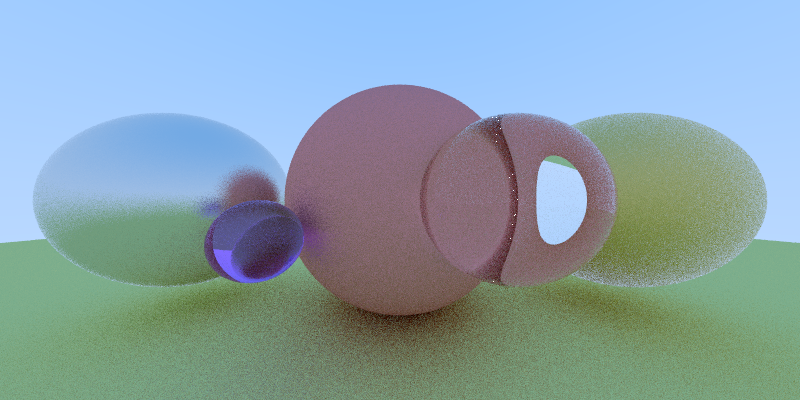
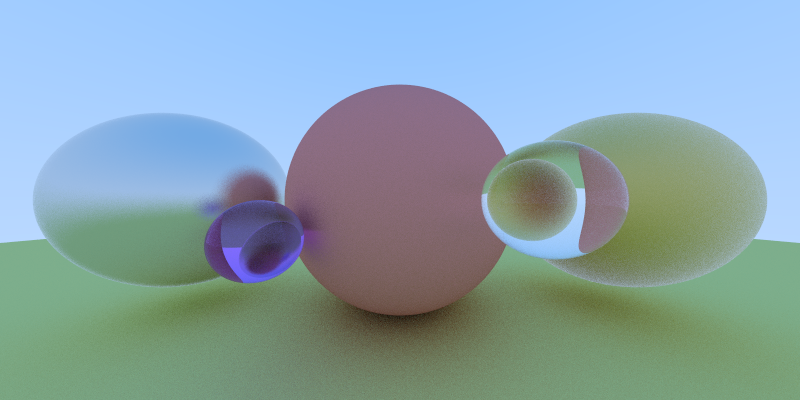
Moved objects so they are not intersecting

diff --git a/src/main.cpp b/src/main.cpp
@@ -22,8 +22,8 @@
 #define OUTPUT_WIDTH 800
 #define OUTPUT_HEIGHT 400
 #define NUM_CHANNELS 3
-#define NUM_SAMPLES_PER_PIXEL 16
-#define NUM_BOUNDCE_PER_RAY 32
+#define NUM_SAMPLES_PER_PIXEL 128
+#define NUM_BOUNDCE_PER_RAY 8
 
 Vector3f SkyGradient(const Ray& r)
 {
@@ -44,7 +44,7 @@ Vector3f ShadePixel(const Ray& viewRay, const Scene& scene, int depth)
     if (depth == 0)
         return Vector3f(0.0f); // assume no light at all
 
-    if (scene.RaytraceScene(viewRay, hit))
+    if (scene.RaytraceScene(viewRay, 0.001f, viewRay.m_Distance, hit))
     {
         Ray scatteredRay;
         Vector3f attenuation;
@@ -73,8 +73,8 @@ Scene* GenerateScene()
     scene->AddPrimitive(new Sphere(Vector3f(0.0f, 0.0f, -1.0f), 0.5f, new Lambertian(Vector3f(0.8f, 0.3f, 0.3f))));
     scene->AddPrimitive(new Sphere(Vector3f(1.0f, 0.0f, -1.0f), 0.4f, new Metallic(Vector3f(0.8f, 0.6f, 0.2f), 1.0f)));
     scene->AddPrimitive(new Sphere(Vector3f(-1.0f, 0.0f, -1.0f), 0.4f, new Metallic(Vector3f(0.8f), 0.3f)));
-    scene->AddPrimitive(new Sphere(Vector3f(0.25f, 0.0f, -0.5f), 0.2f, new Dielectric(Vector3f(1.0f), 1.333f)));
-    scene->AddPrimitive(new Sphere(Vector3f(-0.35f, -0.1f, -0.5f), 0.1f, new Dielectric(Vector3f(0.7f, 0.5f, 1.0f), 1.333f)));
+    scene->AddPrimitive(new Sphere(Vector3f(0.25f, 0.0f, -0.35f), 0.1f, new Dielectric(Vector3f(1.0f), 1.52f)));
+    scene->AddPrimitive(new Sphere(Vector3f(-0.35f, -0.1f, -0.5f), 0.1f, new Dielectric(Vector3f(0.7f, 0.5f, 1.0f), 1.52f)));
 
     // Floor
     scene->AddPrimitive(new Sphere(Vector3f(0.0f, -100.5f, -1.0f), 100.0f, new Lambertian(Vector3f(0.8f, 0.8f, 0.3f))));

diff --git a/src/geometrics/sphere.cpp b/src/geometrics/sphere.cpp
@@ -1,6 +1,6 @@
 #include "sphere.h"
 
-bool Sphere::Hit(const Ray & ray, GeometryHitInfo & hit) const
+bool Sphere::Hit(const Ray & ray, float tMin, float tMax, GeometryHitInfo & hit) const
 {
     Vector3f oc = ray.m_Origin - m_Center;
     float a = Dot(ray.m_Direction, ray.m_Direction);
@@ -14,7 +14,7 @@ bool Sphere::Hit(const Ray & ray, GeometryHitInfo & hit) const
         float hitPoint1 = (-b - sqrt(b * b - a * c)) / a;
         float hitPoint2 = (-b + sqrt(b * b - a * c)) / a;
 
-        if (hitPoint1 <= ray.m_tMax && hitPoint1 >= ray.m_tMin)
+        if (hitPoint1 <= tMax && hitPoint1 >= tMin)
         {
             hit.t = hitPoint1;
             hit.point = ray(hit.t);
@@ -23,7 +23,7 @@ bool Sphere::Hit(const Ray & ray, GeometryHitInfo & hit) const
             return true;
         }
 
-        if (hitPoint2 <= ray.m_tMax && hitPoint2 >= ray.m_tMin)
+        if (hitPoint2 <= tMax && hitPoint2 >= tMin)
         {
             hit.t = hitPoint2;
             hit.point = ray(hit.t);

diff --git a/src/core/scene.cpp b/src/core/scene.cpp
@@ -19,17 +19,17 @@ void Scene::AddPrimitive(Geometry* geometry)
     m_Primitives.push_back(geometry);
 }
 
-bool Scene::RaytraceScene(const Ray& viewRay, GeometryHitInfo& hitInfo) const
+bool Scene::RaytraceScene(const Ray& viewRay, float tMin, float tMax, GeometryHitInfo& hitInfo) const
 {
     GeometryHitInfo tempHitInfo;
 
     bool hitAnything = false;
 
-    float nearestDist = viewRay.m_tMax;
+    float nearestDist = tMax;
 
     for (int i = 0; i < m_Primitives.size(); i++)
     {
-        if (m_Primitives[i]->Hit(viewRay, tempHitInfo) && tempHitInfo.t < nearestDist)
+        if (m_Primitives[i]->Hit(viewRay, tMin, nearestDist, tempHitInfo))
         {
             hitAnything = true;
             nearestDist = tempHitInfo.t;

diff --git a/src/math/ray.cpp b/src/math/ray.cpp
@@ -1,12 +1,10 @@
 #include "ray.h"
 
-Ray::Ray(const Vector3f & ori, const Vector3f & dir, float dist, float tmin, float tmax)
+Ray::Ray(const Vector3f & ori, const Vector3f & dir, float dist)
 {
     m_Origin = ori;
     m_Direction = dir;
     m_Distance = dist;
-    m_tMin = tmin;
-    m_tMax = tmax;
 }
 
 Ray::Ray(const Ray & copy)
@@ -14,6 +12,4 @@ Ray::Ray(const Ray & copy)
     m_Origin = copy.m_Origin;
     m_Direction = copy.m_Direction;
     m_Distance = copy.m_Distance;
-    m_tMin = copy.m_tMin;
-    m_tMax = copy.m_tMax;
 }

diff --git a/src/math/ray.h b/src/math/ray.h
@@ -8,7 +8,7 @@ class Ray
 {
 public:
     Ray() {}
-    Ray(const Vector3f& ori, const Vector3f& dir, float dist = 1000.0f, float tmin = 0.001f, float tmax = FLT_MAX);
+    Ray(const Vector3f& ori, const Vector3f& dir, float dist = 1000.0f);
     Ray(const Ray& copy);
     
     inline Vector3f operator()(float t) const { return m_Origin + t * m_Direction; }
@@ -16,9 +16,6 @@ public:
     Vector3f m_Origin;
     Vector3f m_Direction;
     float m_Distance;
-
-    float m_tMin;
-    float m_tMax;
 };
 #endif // !__MATH_RAY_H__
 

diff --git a/src/geometrics/sphere.h b/src/geometrics/sphere.h
@@ -9,7 +9,7 @@ public:
     Sphere() {}
     Sphere(Vector3f center, float radius, Material* material) : m_Center(center), m_Radius(radius), m_pMaterial(material) {};
 
-    virtual bool Hit(const Ray& ray, GeometryHitInfo& hit) const;
+    virtual bool Hit(const Ray& ray, float tMin, float tMax, GeometryHitInfo& hit) const;
 
 public:
     Material* m_pMaterial;

diff --git a/src/core/scene.h b/src/core/scene.h
@@ -13,7 +13,7 @@ public:
     
     void AddPrimitive(Geometry* geometry);
 
-    bool RaytraceScene(const Ray& viewRay, GeometryHitInfo& hitInfo) const;
+    bool RaytraceScene(const Ray& viewRay, float tMin, float tMax, GeometryHitInfo& hitInfo) const;
 
 private:
     std::vector<Geometry*> m_Primitives;

diff --git a/src/geometrics/geometry.h b/src/geometrics/geometry.h
@@ -16,7 +16,7 @@ struct GeometryHitInfo
 class Geometry
 {
 public:
-    virtual bool Hit(const Ray& ray, GeometryHitInfo& hit) const = 0;
+    virtual bool Hit(const Ray& ray, float tMin, float tMax, GeometryHitInfo& hit) const = 0;
 };
 
 #endif // !__GEOMETRICS_GEOMETRY_H__
